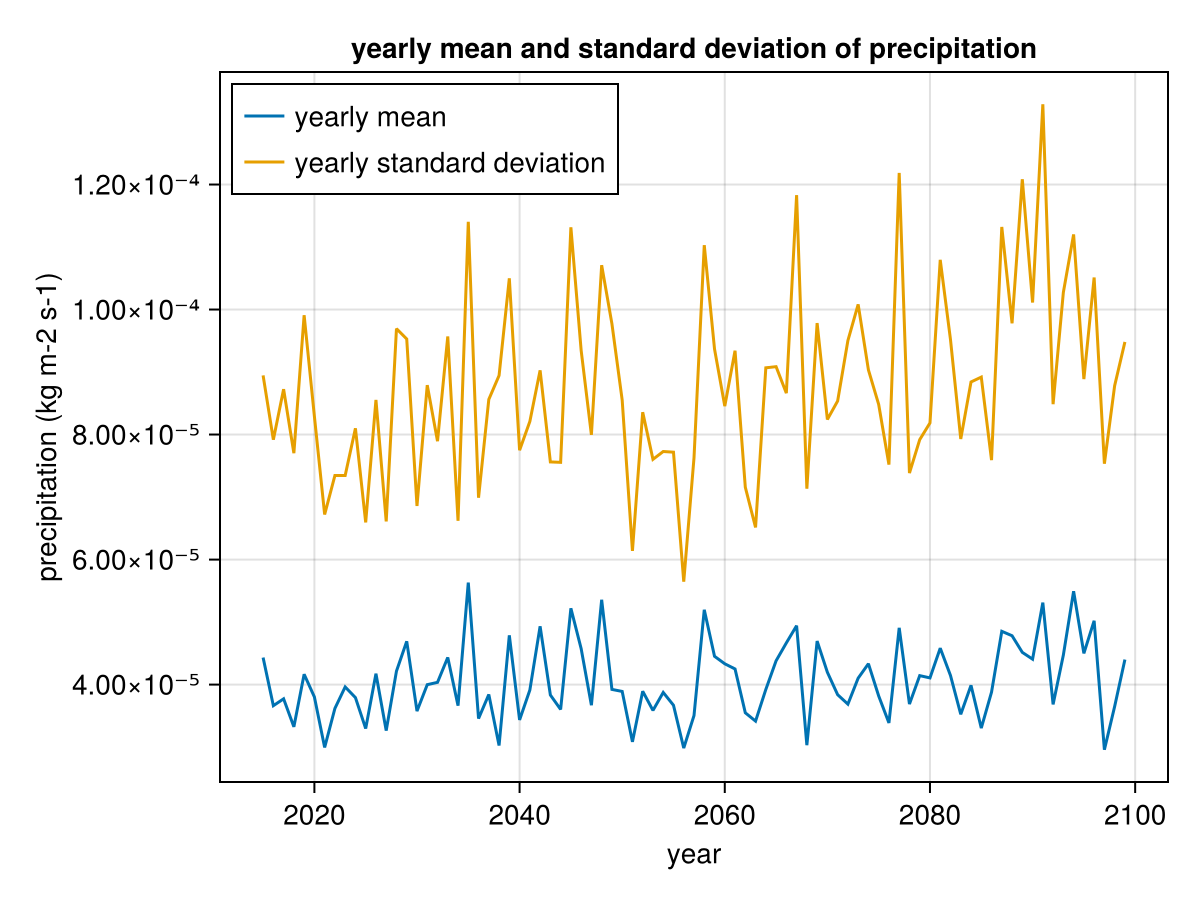
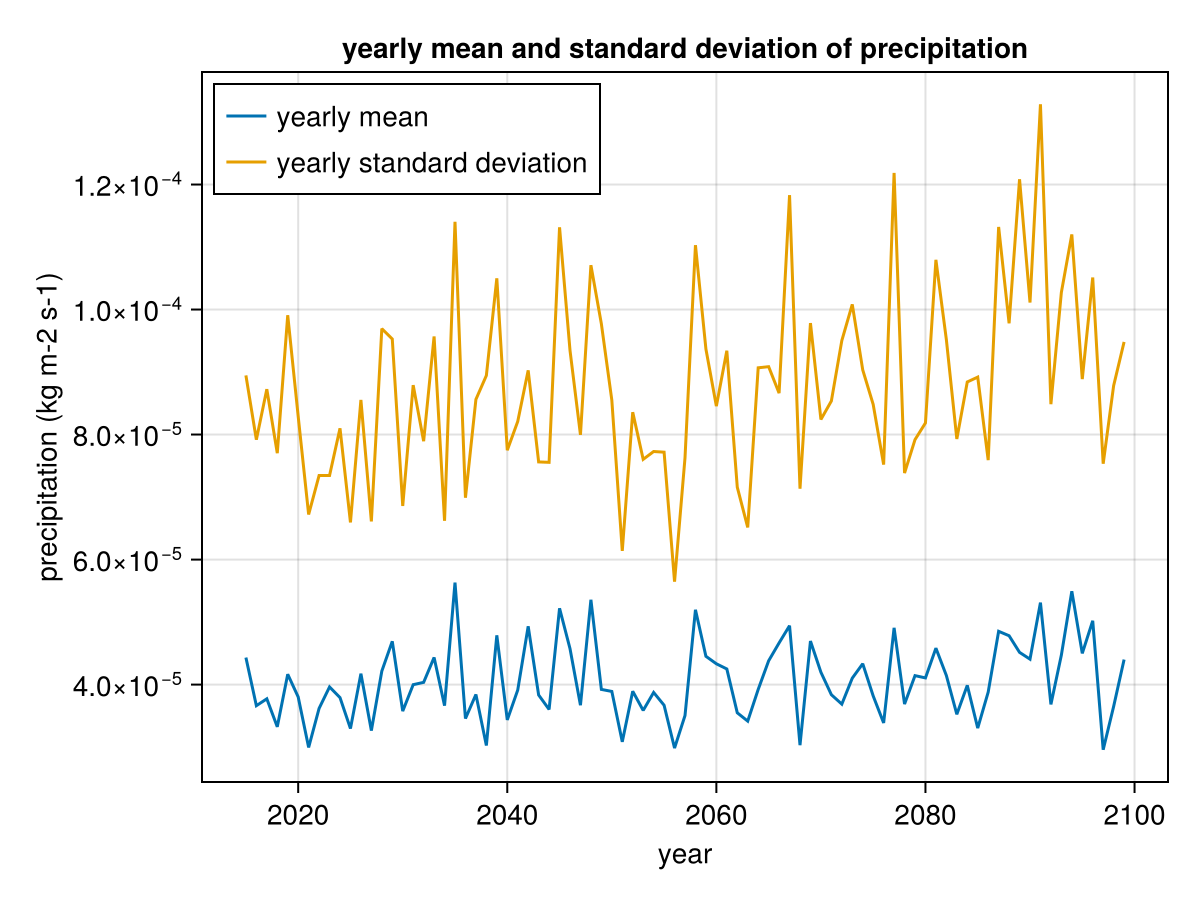
build based on c7bd684

diff --git a/dev/basic_usage/index.html b/dev/basic_usage/index.html
@@ -13,4 +13,4 @@ msec, µsec, nsec = (0, 0, 1)
 dt = DateTimeStandard(
     Int128, y, m, d, hour, minute, sec, msec, µsec, nsec;
     units = :nanosecond
-)</code></pre><pre><code class="nohighlight hljs">DateTimeStandard(2000-01-01T00:00:00.000000001)</code></pre><p>In the example above, <code>units = :nanosecond</code> can also be omitted as a nanosecond argument (<code>nsec</code>) is provided.</p></article><nav class="docs-footer"><a class="docs-footer-prevpage" href="../">« CFTime</a><a class="docs-footer-nextpage" href="../example_CMIP6/">Loading climate data »</a><div class="flexbox-break"></div><p class="footer-message">Powered by <a href="https://github.com/JuliaDocs/Documenter.jl">Documenter.jl</a>, <a href="https://github.com/fredrikekre/Literate.jl">Literate.jl</a> and the <a href="https://julialang.org/">Julia Programming Language</a></p></nav></div><div class="modal" id="documenter-settings"><div class="modal-background"></div><div class="modal-card"><header class="modal-card-head"><p class="modal-card-title">Settings</p><button class="delete"></button></header><section class="modal-card-body"><p><label class="label">Theme</label><div class="select"><select id="documenter-themepicker"><option value="auto">Automatic (OS)</option><option value="documenter-light">documenter-light</option><option value="documenter-dark">documenter-dark</option><option value="catppuccin-latte">catppuccin-latte</option><option value="catppuccin-frappe">catppuccin-frappe</option><option value="catppuccin-macchiato">catppuccin-macchiato</option><option value="catppuccin-mocha">catppuccin-mocha</option></select></div></p><hr/><p>This document was generated with <a href="https://github.com/JuliaDocs/Documenter.jl">Documenter.jl</a> version 1.17.0 on <span class="colophon-date" title="Sunday 31 May 2026 10:20">Sunday 31 May 2026</span>. Using Julia version 1.12.6.</p></section><footer class="modal-card-foot"></footer></div></div></div></body></html>
+)</code></pre><pre><code class="nohighlight hljs">DateTimeStandard(2000-01-01T00:00:00.000000001)</code></pre><p>In the example above, <code>units = :nanosecond</code> can also be omitted as a nanosecond argument (<code>nsec</code>) is provided.</p></article><nav class="docs-footer"><a class="docs-footer-prevpage" href="../">« CFTime</a><a class="docs-footer-nextpage" href="../example_CMIP6/">Loading climate data »</a><div class="flexbox-break"></div><p class="footer-message">Powered by <a href="https://github.com/JuliaDocs/Documenter.jl">Documenter.jl</a>, <a href="https://github.com/fredrikekre/Literate.jl">Literate.jl</a> and the <a href="https://julialang.org/">Julia Programming Language</a></p></nav></div><div class="modal" id="documenter-settings"><div class="modal-background"></div><div class="modal-card"><header class="modal-card-head"><p class="modal-card-title">Settings</p><button class="delete"></button></header><section class="modal-card-body"><p><label class="label">Theme</label><div class="select"><select id="documenter-themepicker"><option value="auto">Automatic (OS)</option><option value="documenter-light">documenter-light</option><option value="documenter-dark">documenter-dark</option><option value="catppuccin-latte">catppuccin-latte</option><option value="catppuccin-frappe">catppuccin-frappe</option><option value="catppuccin-macchiato">catppuccin-macchiato</option><option value="catppuccin-mocha">catppuccin-mocha</option></select></div></p><hr/><p>This document was generated with <a href="https://github.com/JuliaDocs/Documenter.jl">Documenter.jl</a> version 1.17.0 on <span class="colophon-date" title="Thursday 4 June 2026 07:04">Thursday 4 June 2026</span>. Using Julia version 1.12.6.</p></section><footer class="modal-card-foot"></footer></div></div></div></body></html>

diff --git a/dev/example_CMIP6/index.html b/dev/example_CMIP6/index.html
@@ -21,4 +21,4 @@ ax = Axis(
 
 lines!(ax, years, pr_yearly_mean, label = &quot;yearly mean&quot;)
 lines!(ax, years, pr_yearly_std, label = &quot;yearly standard deviation&quot;)
-axislegend(ax, position = :lt)</code></pre><p><img src="../precipitation.png" alt/></p></article><nav class="docs-footer"><a class="docs-footer-prevpage" href="../basic_usage/">« Basic Usage</a><div class="flexbox-break"></div><p class="footer-message">Powered by <a href="https://github.com/JuliaDocs/Documenter.jl">Documenter.jl</a>, <a href="https://github.com/fredrikekre/Literate.jl">Literate.jl</a> and the <a href="https://julialang.org/">Julia Programming Language</a></p></nav></div><div class="modal" id="documenter-settings"><div class="modal-background"></div><div class="modal-card"><header class="modal-card-head"><p class="modal-card-title">Settings</p><button class="delete"></button></header><section class="modal-card-body"><p><label class="label">Theme</label><div class="select"><select id="documenter-themepicker"><option value="auto">Automatic (OS)</option><option value="documenter-light">documenter-light</option><option value="documenter-dark">documenter-dark</option><option value="catppuccin-latte">catppuccin-latte</option><option value="catppuccin-frappe">catppuccin-frappe</option><option value="catppuccin-macchiato">catppuccin-macchiato</option><option value="catppuccin-mocha">catppuccin-mocha</option></select></div></p><hr/><p>This document was generated with <a href="https://github.com/JuliaDocs/Documenter.jl">Documenter.jl</a> version 1.17.0 on <span class="colophon-date" title="Sunday 31 May 2026 10:20">Sunday 31 May 2026</span>. Using Julia version 1.12.6.</p></section><footer class="modal-card-foot"></footer></div></div></div></body></html>
+axislegend(ax, position = :lt)</code></pre><p><img src="../precipitation.png" alt/></p></article><nav class="docs-footer"><a class="docs-footer-prevpage" href="../basic_usage/">« Basic Usage</a><div class="flexbox-break"></div><p class="footer-message">Powered by <a href="https://github.com/JuliaDocs/Documenter.jl">Documenter.jl</a>, <a href="https://github.com/fredrikekre/Literate.jl">Literate.jl</a> and the <a href="https://julialang.org/">Julia Programming Language</a></p></nav></div><div class="modal" id="documenter-settings"><div class="modal-background"></div><div class="modal-card"><header class="modal-card-head"><p class="modal-card-title">Settings</p><button class="delete"></button></header><section class="modal-card-body"><p><label class="label">Theme</label><div class="select"><select id="documenter-themepicker"><option value="auto">Automatic (OS)</option><option value="documenter-light">documenter-light</option><option value="documenter-dark">documenter-dark</option><option value="catppuccin-latte">catppuccin-latte</option><option value="catppuccin-frappe">catppuccin-frappe</option><option value="catppuccin-macchiato">catppuccin-macchiato</option><option value="catppuccin-mocha">catppuccin-mocha</option></select></div></p><hr/><p>This document was generated with <a href="https://github.com/JuliaDocs/Documenter.jl">Documenter.jl</a> version 1.17.0 on <span class="colophon-date" title="Thursday 4 June 2026 07:04">Thursday 4 June 2026</span>. Using Julia version 1.12.6.</p></section><footer class="modal-card-foot"></footer></div></div></div></body></html>